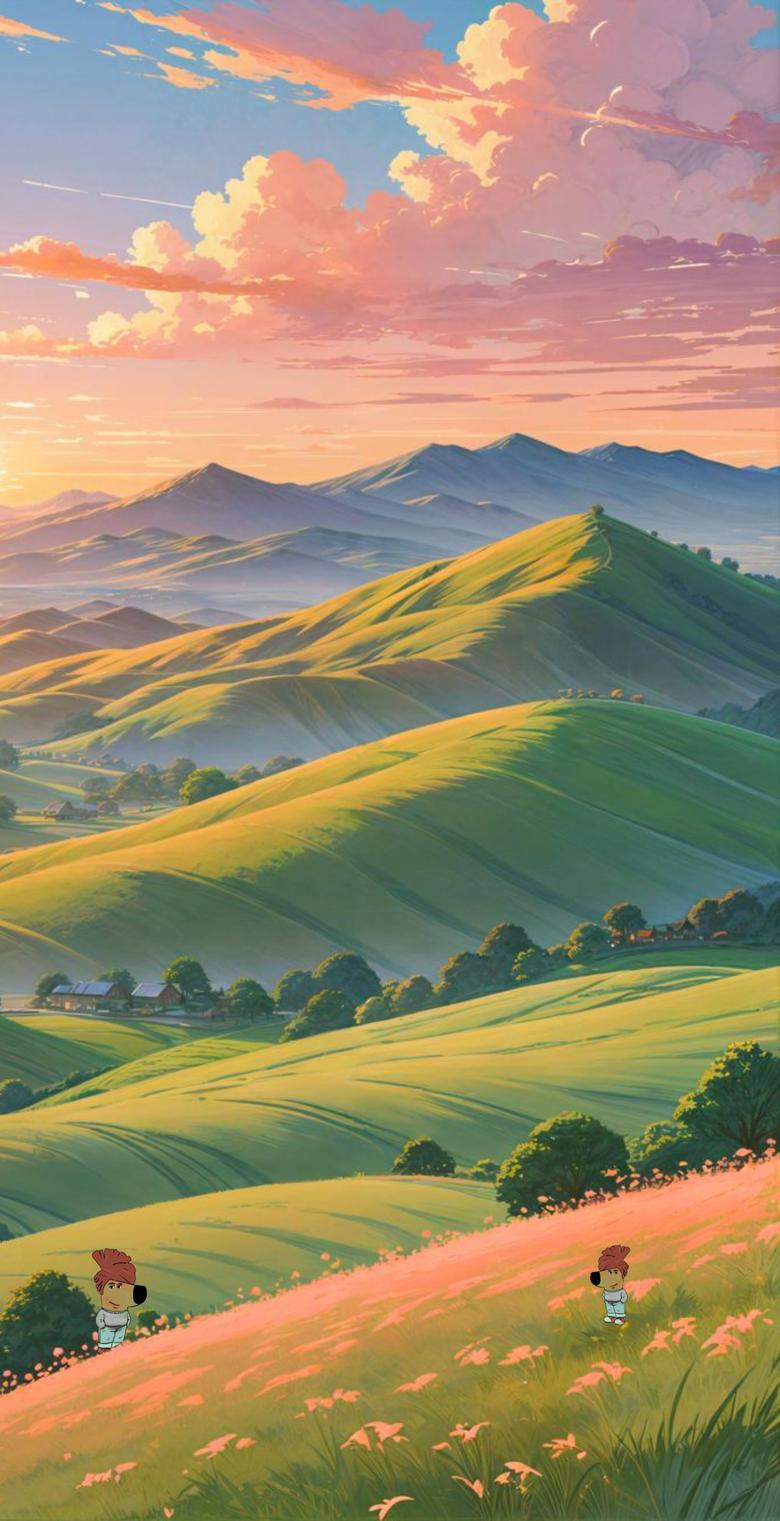
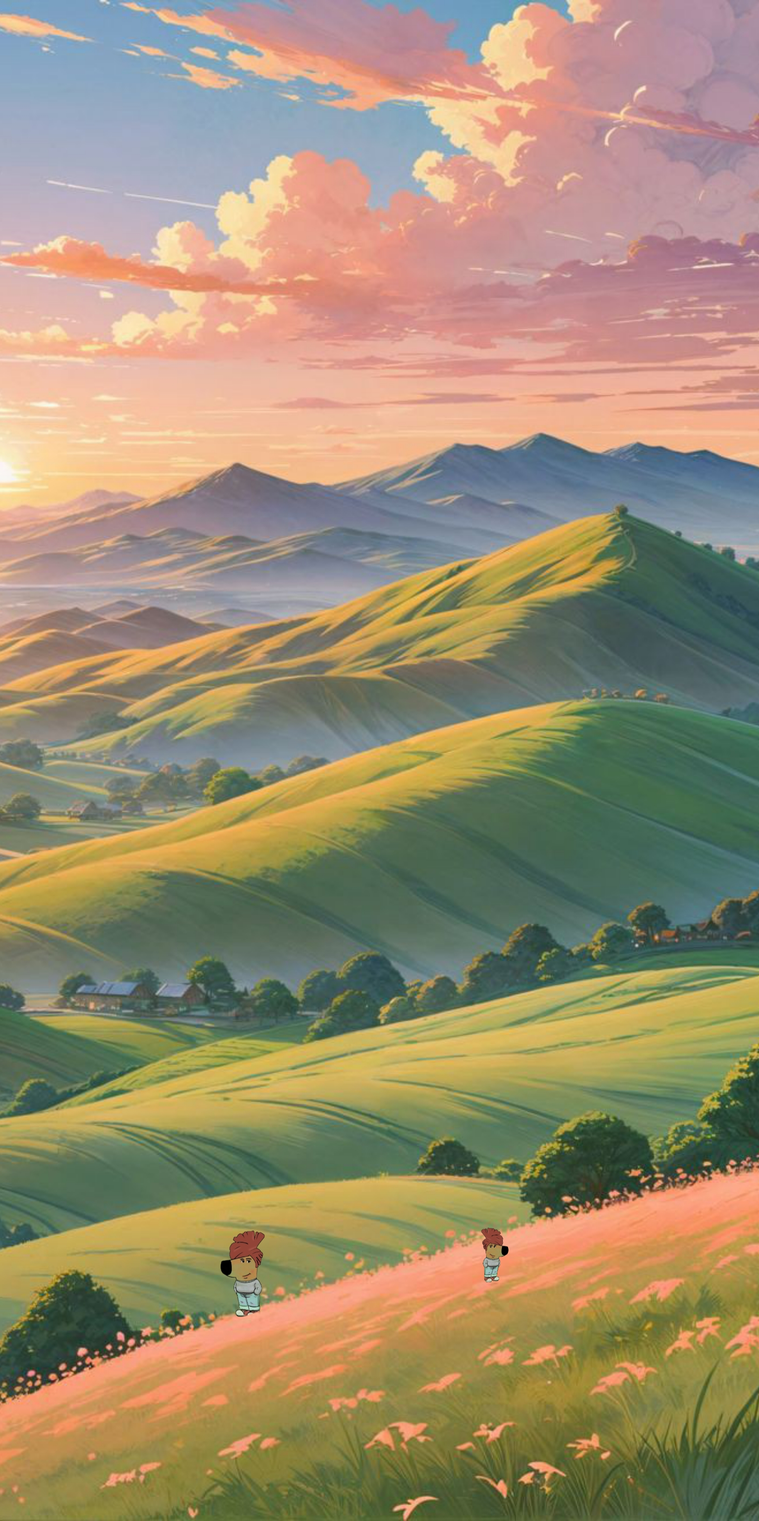
Dog Issue Fixed

diff --git a/style.css b/style.css
@@ -268,10 +268,10 @@ footer button {
    body {
       overflow-x: hidden;
       padding: 0rem;
-      /* background: url('./assets//images/small-background.jpg');
-      background-size: cover; 
-      background-repeat: no-repeat; 
-      background-position: center; */
+      background: url('./assets//images/small-background.jpg');
+      background-size: cover;
+      background-repeat: no-repeat;
+      background-position: center;
    }
 
    main {
